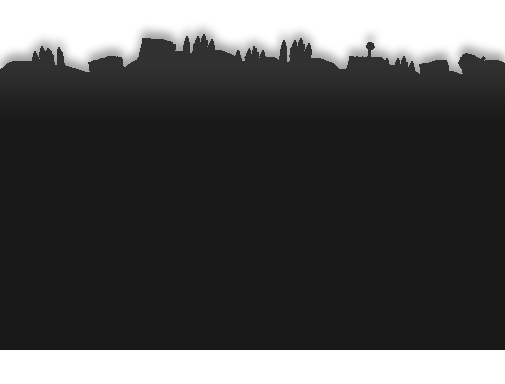
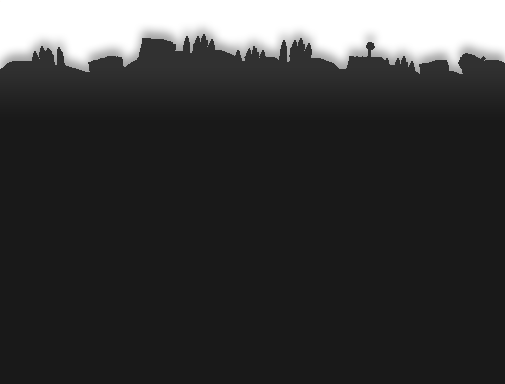
Tocada la escala del mapa, de los hamsters, y añadido el parallax

Changed region(s): [[0.0, 0.9062, 1.0, 1.0]]

diff --git a/Project Stroke/Proyecto/components/Parallax.cpp b/Project Stroke/Proyecto/components/Parallax.cpp
@@ -19,7 +19,7 @@ Parallax::Parallax(Texture* im, float vel, Vector2D size, Vector2D pos)
 void Parallax::init()
 {
 	auto backLeft = entity_->getMngr()->addBackGround();
-	backLeft->addComponent<Transform>(Vector2D(texPos_.getX(), texPos_.getY()), Vector2D(0, 0), texSize_.getX(), texSize_.getY(), 
+	backLeft->addComponent<Transform>(texPos_, Vector2D(0, 0), texSize_.getX(), texSize_.getY(), 
 											   0.0, 1, 1);
 	backLeft->addComponent<BackGround>(tex_, pxVel_);
 	leftTr_ = backLeft->getComponent<Transform>();
@@ -42,28 +42,23 @@ void Parallax::init()
 
 void Parallax::update()
 {
-
 	//Comprobamos si ha llegado a alguna de las posiciones relativas y actualizamos
 	checkRelativePos();
-
 }
 
 void Parallax::checkRelativePos()
 {
 	camPos_ = entity_->getMngr()->getHandler<Camera__>()->getComponent<Camera>()->getCamPos();
 	if (camPos_.getX() >= rightTr_->getPos().getX())
-	{
-		
-		leftTr_->setPos(Vector2D(leftTr_->getPos().getX() + leftTr_->getW(), 0));
-		centerTr_->setPos(Vector2D(centerTr_->getPos().getX() + centerTr_->getW(), 0));
-		rightTr_->setPos(Vector2D(rightTr_->getPos().getX() + rightTr_->getW(), 0));
-
+	{		
+		leftTr_->setPos(Vector2D(leftTr_->getPos().getX() + leftTr_->getW(), leftTr_->getPos().getY()));
+		centerTr_->setPos(Vector2D(centerTr_->getPos().getX() + centerTr_->getW(), leftTr_->getPos().getY()));
+		rightTr_->setPos(Vector2D(rightTr_->getPos().getX() + rightTr_->getW(), leftTr_->getPos().getY()));
 	}
 	else if(camPos_.getX() <= centerTr_->getPos().getX())
 	{
-		leftTr_->setPos(Vector2D(leftTr_->getPos().getX() - leftTr_->getW(), 0));
-		centerTr_->setPos(Vector2D(centerTr_->getPos().getX() - centerTr_->getW(), 0));
-		rightTr_->setPos(Vector2D(rightTr_->getPos().getX() - rightTr_->getW(), 0));
-	}
-	
+		leftTr_->setPos(Vector2D(leftTr_->getPos().getX() - leftTr_->getW(), leftTr_->getPos().getY()));
+		centerTr_->setPos(Vector2D(centerTr_->getPos().getX() - centerTr_->getW(), leftTr_->getPos().getY()));
+		rightTr_->setPos(Vector2D(rightTr_->getPos().getX() - rightTr_->getW(), leftTr_->getPos().getY()));
+	}	
 }

diff --git a/Project Stroke/Proyecto/components/MapMngr.cpp b/Project Stroke/Proyecto/components/MapMngr.cpp
@@ -123,13 +123,20 @@ void MapMngr::loadNewMap(string map) {
 		}
 
 		//Fondos
-		/*auto* o = entity_->getMngr()->addBackGround();
-		o->addComponent<Transform>(Vector2D(0,0), Vector2D(0, 0), 100, 1080, 0.0, 1, 1);
-		o->addComponent<BackGround>(&sdlutils().images().at("MAYONESITO"), 80);*/
-		auto* o = entity_->getMngr()->addEntity();
-		o->addComponent<Transform>(Vector2D(0, 0), Vector2D(0, 0), 100, 1080, 0.0, 1, 1);
+		auto* o = entity_->getMngr()->addBackGround();
+		o->addComponent<Transform>(Vector2D(0, 0), Vector2D(0, 0), 1920, 1459, 0.0, 1, 1);
+		//Para meter un fondo meter esto									velocidad		tamaño       posicion
+		o->addComponent<Parallax>(&sdlutils().images().at("level1background1"), 40, Vector2D(1920, 1459), Vector2D(0, -205));
+		
+		auto* p = entity_->getMngr()->addBackGround();
+		p->addComponent<Transform>(Vector2D(0, 0), Vector2D(0, 0), 1920, 1459, 0.0, 1, 1);
 		//Para meter un fondo meter esto                              velocidad  tamaño            posicion
-		o->addComponent<Parallax>(&sdlutils().images().at("MAYONESITO"), 80, Vector2D(1920, 1080), Vector2D(0, 0));
+		p->addComponent<Parallax>(&sdlutils().images().at("level1background2"), 60, Vector2D(1920, 1459), Vector2D(0, -205));
+		
+		auto* q = entity_->getMngr()->addBackGround();
+		q->addComponent<Transform>(Vector2D(0, 0), Vector2D(0, 0), 1920, 1459, 0.0, 1, 1);
+		//Para meter un fondo meter esto                              velocidad  tamaño            posicion
+		q->addComponent<Parallax>(&sdlutils().images().at("level1background3"), 80, Vector2D(1920, 1459), Vector2D(0, -205));
 
 		for (const auto& layer : layers)
 		{
@@ -422,7 +429,7 @@ void MapMngr::addHamster(const tmx::Object& obj) {
 
 	hamster1->addComponent<Transform>(
 		Vector2D(obj.getPosition().x * scale, obj.getPosition().y * scale),
-		Vector2D(), 256.0f, 256.0f, 0.0f, 1, 1);
+		Vector2D(), 86 * scale, 86 * scale, 0.0f, 1, 1);
 	hamster1->addComponent<HamsterStateMachine>();
 
 	hamster1->addComponent<EntityAttribs>(100, 0.0, name, Vector2D(7, 4.5), 0, 15, 20);

diff --git a/Project Stroke/Proyecto/components/Parallax.h b/Project Stroke/Proyecto/components/Parallax.h
@@ -14,16 +14,6 @@ private:
 	//Posicion de la camara
 	Vector2D camPos_;
 
-	//Posicion (x) del parallax de la izquierda
-	float targetLeftPos;
-	float actualLeftPos;
-	//Posicion (x) del parallax de la derecha
-	float targetRightPos;
-	float actualRightPos;
-
-	//Actualiza las posiciones relativas
-	void updateRelativePos();
-
 	//Comprueba que el parallax se ha movido hasta alguna
 	//actualiza las posiciones en ese caso
 	void checkRelativePos();

diff --git a/Project Stroke/Proyecto/components/BackGround.cpp b/Project Stroke/Proyecto/components/BackGround.cpp
@@ -19,6 +19,6 @@ void BackGround::update()
 	camPos_ = entity_->getMngr()->getHandler<Camera__>()->getComponent<Camera>()->getCamPos();
 
 	//Movemos el background en sentido contrario en funcion de la camara
-	tr_->setPos(Vector2D(tr_->getPos().getX() - (camPos_.getX() - antPos.getX())*pxVel_/100, 0));
+	tr_->setPos(Vector2D(tr_->getPos().getX() - (camPos_.getX() - antPos.getX())*pxVel_/100, tr_->getPos().getY()));
 	
 }
